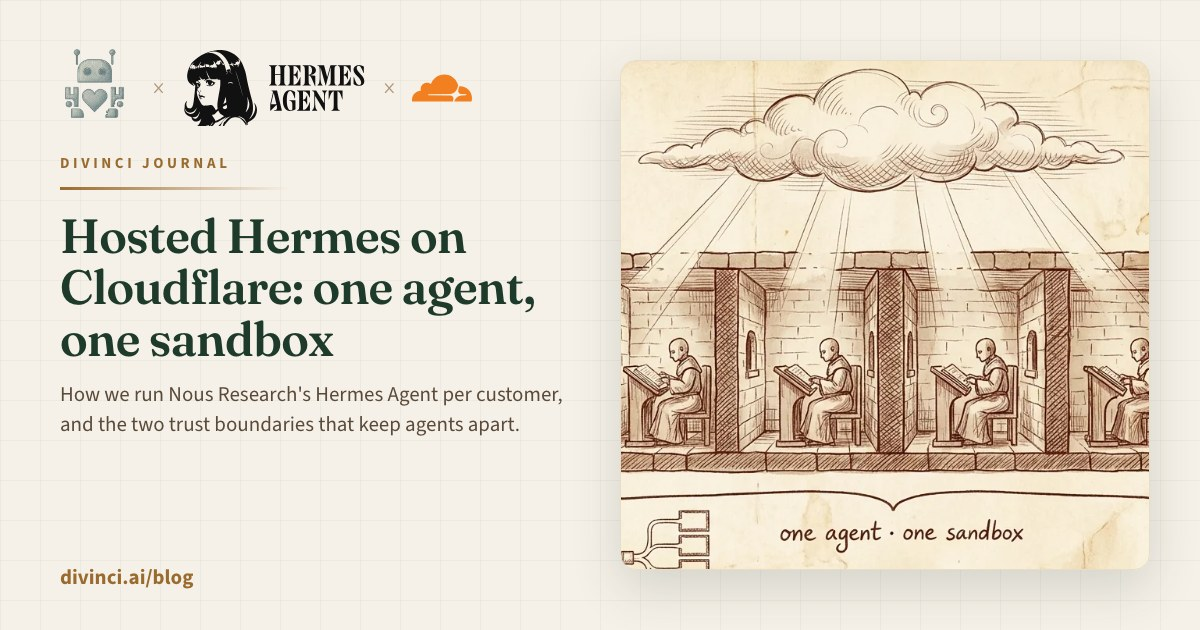
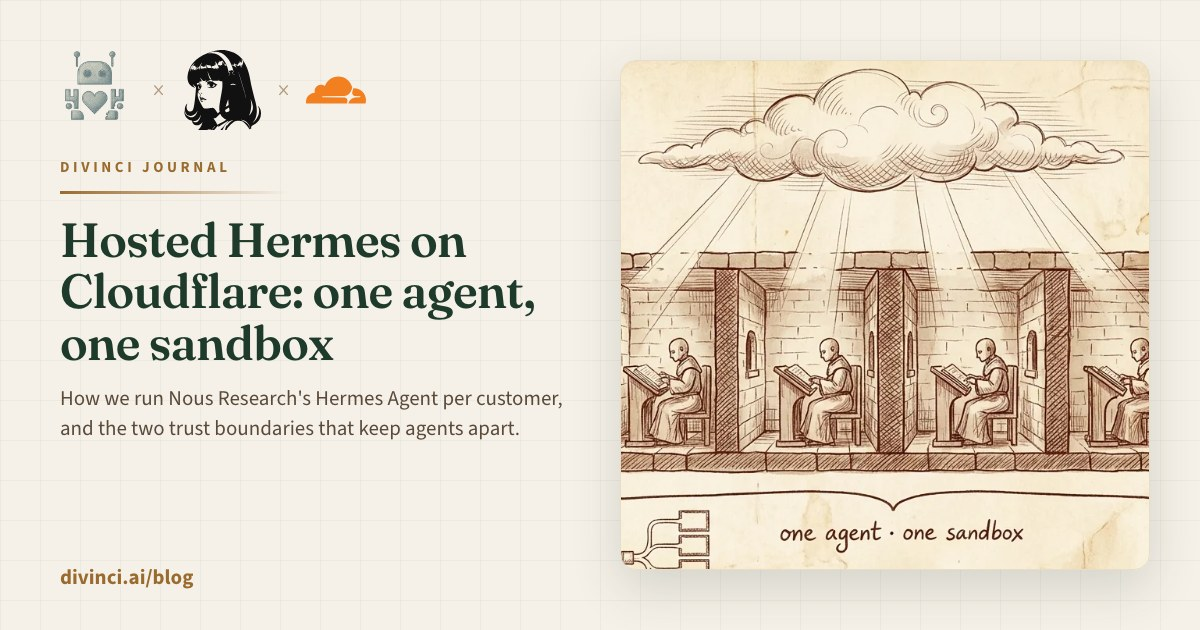
feat(og): Hermes cards show only the Hermes Agent mark, not the wordmark
Claude-Session: https://claude.ai/code/session_01E9FmEuWsu7KX6kWNWKphx7

diff --git a/site/static/brand/vendors/README.md b/site/static/brand/vendors/README.md
@@ -46,7 +46,7 @@ Vertex AI reuses `/brand/companies/google.svg`, already in the repo.
 
 Used by `scripts/gen-hermes-og.mjs` for the Hosted Hermes social cards.
 
-- `hermes-agent-mark.svg` and `hermes-agent-text.svg`: `hermesagent.svg` and
-  `hermesagent-text.svg` from @lobehub/icons-static-svg (MIT,
+- `hermes-agent-mark.svg`: `hermesagent.svg` from
+  @lobehub/icons-static-svg (MIT,
   https://lobehub.com/icons/hermesagent). `currentColor` set to `#111` and the
-  1em sizing removed so they render as standalone images.
+  1em sizing removed so it renders as a standalone image.
